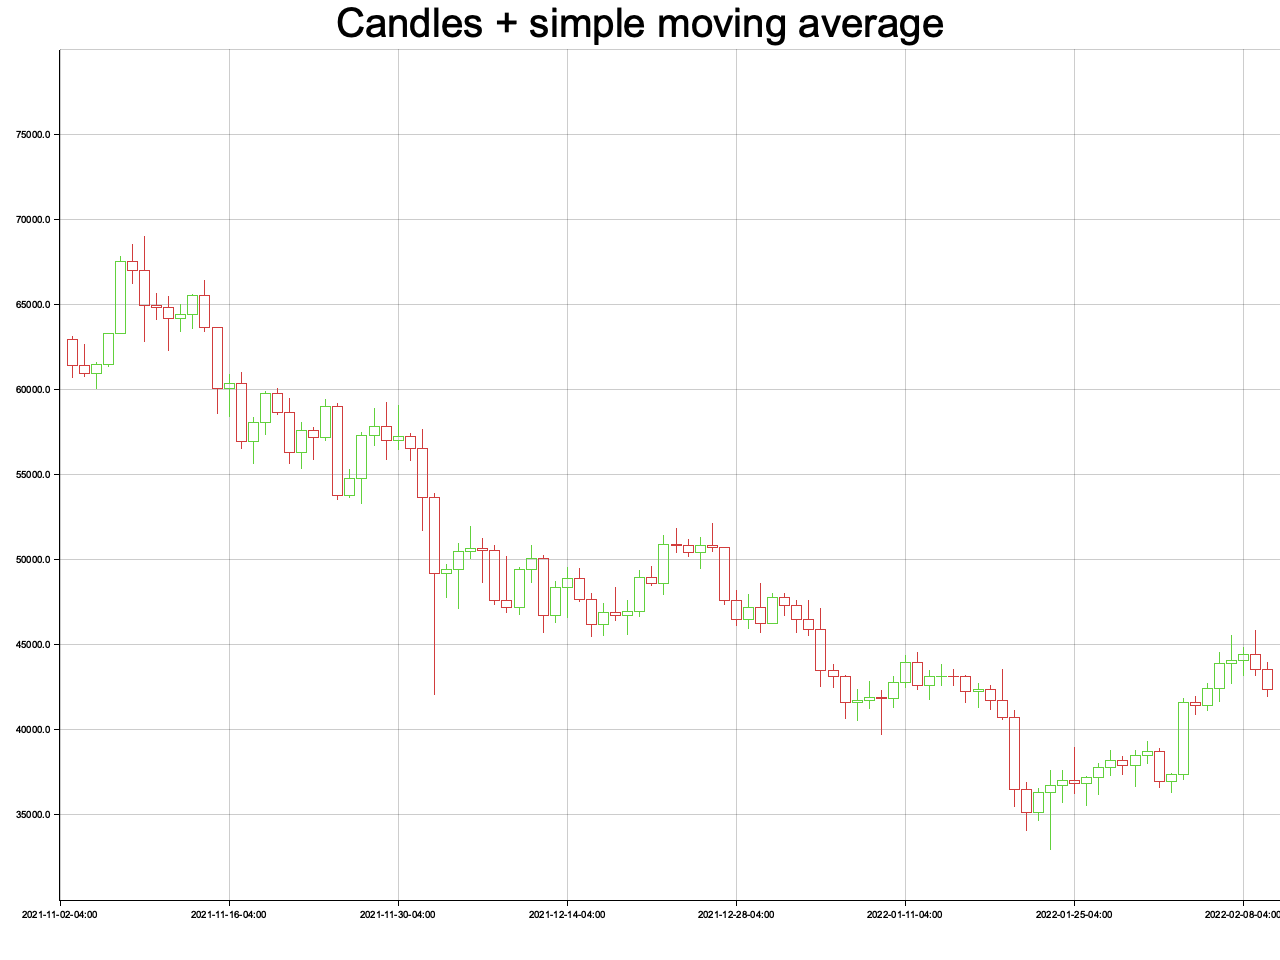
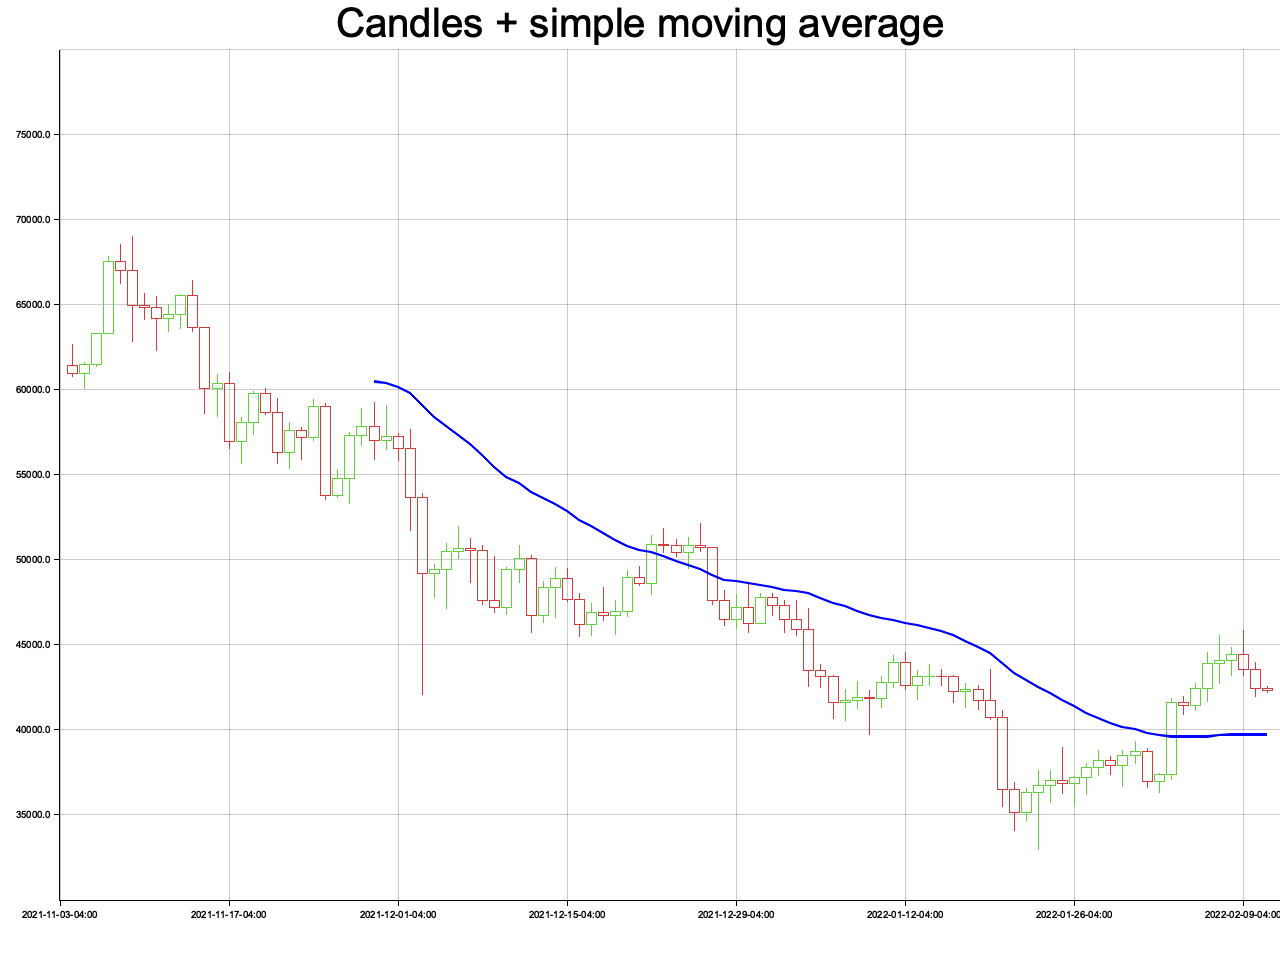
plot 🕯 + simple moving average results

diff --git a/src/main.rs b/src/main.rs
@@ -24,15 +24,6 @@ async fn main() {
     };
     println!("first result: {:?}", kline_data[0]);
 
-    let price_data: Vec<f64> = kline_data.iter().rev().take(100).map(|f| f.close).collect();
-    let result = statistics::simple_moving_average(&price_data, 26);
-
-    let sma_data = match result {
-        Some(data) => data,
-        _ => panic!("Calculating SMA failed"),
-    };
-
-    println!("SMA: {:?}", sma_data[0]);
 
     let dir = "plots-output";
     let filepath = format!("{}/sma15.png", &dir);
@@ -70,7 +61,7 @@ async fn main() {
         .unwrap();
 
     chart
-        .draw_series(time_data.iter().rev().take(100).map(|x| {
+        .draw_series(time_data.iter().map(|x| {
             CandleStick::new(
                 x.0,
                 x.1,
@@ -83,6 +74,29 @@ async fn main() {
             )
         }))
         .unwrap();
+
+    let price_data: Vec<f64> = kline_data.iter().rev().take(100).map(|x| x.close).collect();
+    let result = statistics::simple_moving_average(&price_data, 26);
+
+    let sma_data = match result {
+        Some(data) => data,
+        _ => panic!("Calculating SMA failed"),
+    };
+
+    println!("SMA: {:?}", sma_data[0]);
+
+    let mut line_data: Vec<(Date<Local>, f64)> = Vec::new();
+    for i in 0..sma_data.len() {
+        line_data.push((time_data[i].0, sma_data[i] as f64));
+    }
+
+    println!("SMA: {:?}", line_data[0]);
+
+    chart
+        .draw_series(LineSeries::new(line_data, BLUE.stroke_width(2)))
+        .unwrap()
+        .label("SMA 15")
+        .legend(|(x, y)| PathElement::new(vec![(x, y), (x + 20, y)], &BLUE));
 
     root.present().expect(&format!("Unable to write result to file please make sure directory '{}' exists under the current dir", &dir));
 
